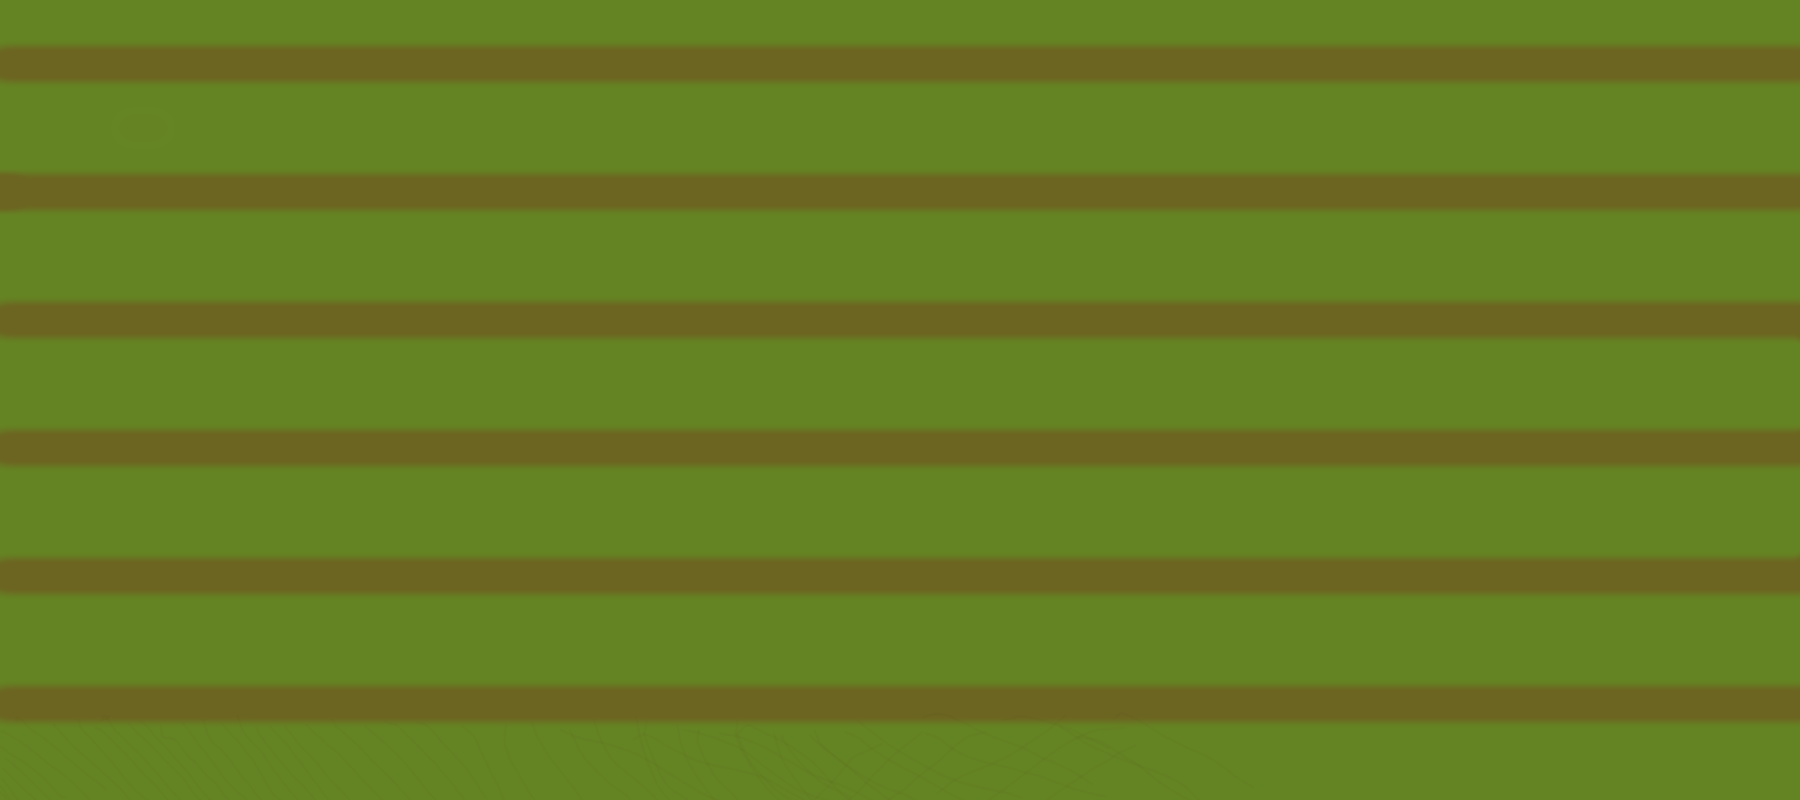
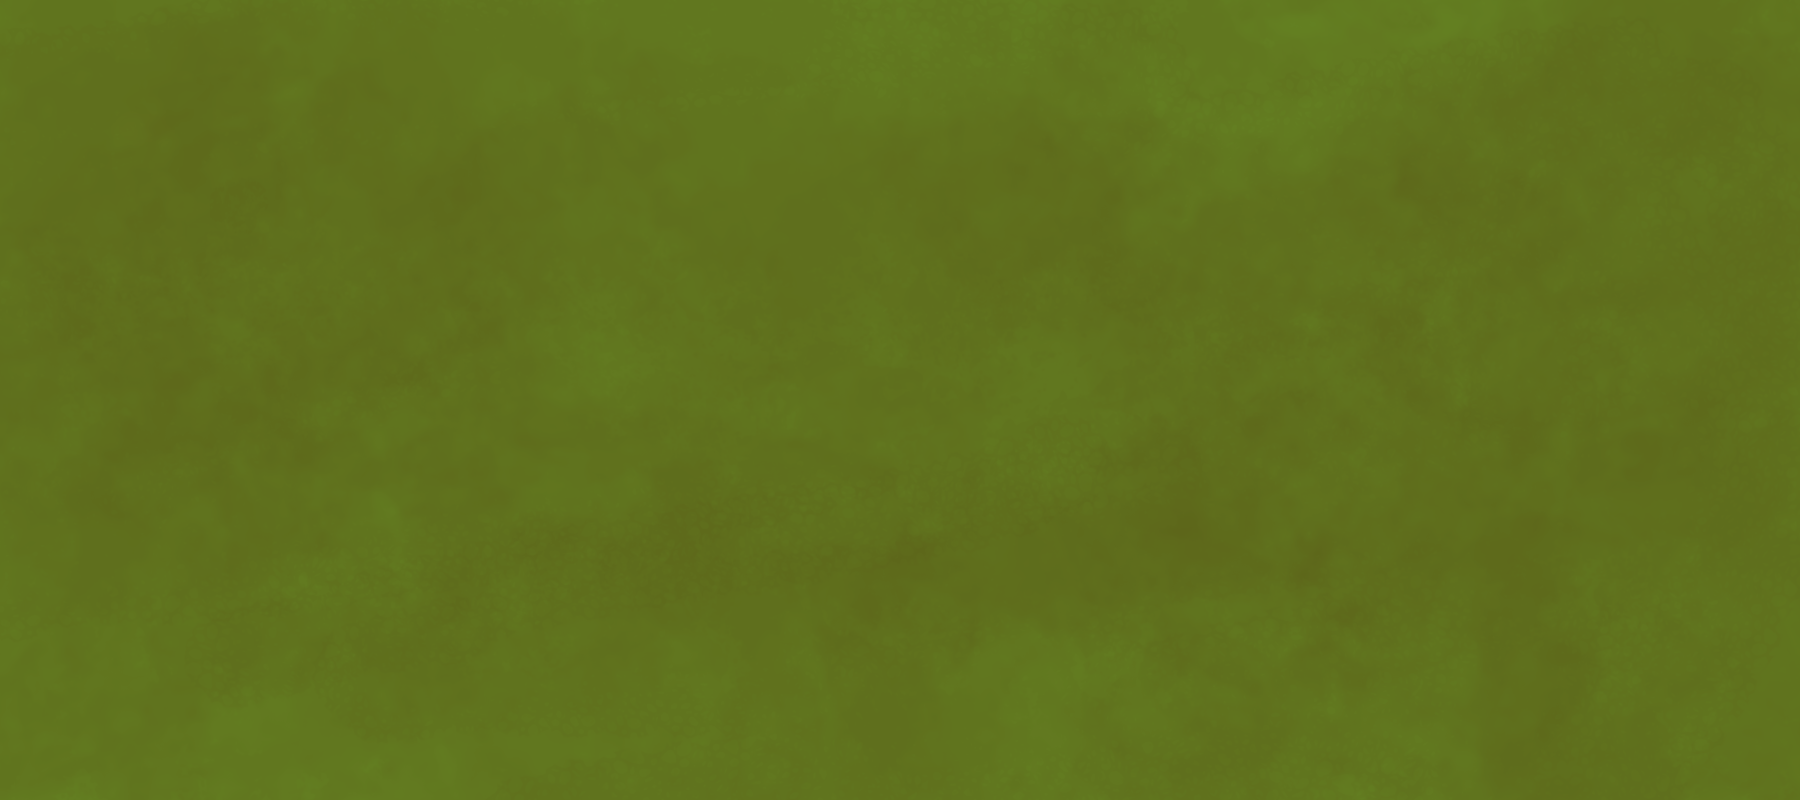
now the number of poles are reduces

diff --git a/main.py b/main.py
@@ -19,6 +19,7 @@ screen_starter = 0
 hit_occured = False 
 distance_between_poles = 0
 avoid_object_list = []
+large_stone_list = []
 
 # Makes the first display and its size
 WIN = pygame.display.set_mode((WIDTH, HEIGHT)) 
@@ -37,9 +38,11 @@ system_type = platform.system()
 if system_type == "Darwin":
     print("macOS")
     GREEN_WORLD = pygame.transform.scale(pygame.image.load('Assets/GreenWorld.PNG'), (WIDTH, HEIGHT)) 
+    large_stone_image = pygame.image.load("Assets/large_stone_1.png")
 elif system_type == "Windows":
     print("Windows")
     GREEN_WORLD = pygame.transform.scale(pygame.image.load('Assets\GreenWorld.PNG'), (WIDTH, HEIGHT)) 
+    large_stone_image = pygame.image.load("Assets\large_stone_1.png")
 
 # Events based on the game progress
 PLAYER_HIT = pygame.USEREVENT + 1
@@ -52,11 +55,25 @@ LOSE_FONT = pygame.font.SysFont('comicsans', 100)
 class large_stone_one(pygame.sprite.Sprite):
     def __init__(self, pos_x, pos_y, initial_width, initial_height):
         pygame.sprite.Sprite.__init__(self)
-        self.image = pygame.image.load("Assets\large_stone_1.png")
+        # Note consider loading the image outside of the class
+        self.image = large_stone_image
         self.image = pygame.transform.scale(self.image, (initial_width, initial_height))
         self.rect = self.image.get_rect()
         self.rect.topleft = [pos_x, pos_y]
-     
+        self.speed = SCREEN_VEL
+
+    def update_speed(self):
+        global screen_starter
+        global large_stone_list
+        if screen_starter >= 1 or player.x > 100:
+            self.rect.x -= self.speed
+            if self.rect.x <= -10:
+                self.kill()
+                if large_stone_list:
+                    large_stone_list.pop(0)
+                else: 
+                    pass
+                
             
 # Class for creation of sprites for poles 
 class avoid_object(pygame.sprite.Sprite):
@@ -70,46 +87,86 @@ class avoid_object(pygame.sprite.Sprite):
 
     def update_speed(self):
         global screen_starter
+        global avoid_object_list
         if screen_starter >= 1 or player.x > 100:
             self.rect.x -= self.speed
             if self.rect.x <= -10:
                 self.kill()
+                if avoid_object_list:
+                    avoid_object_list.pop(0)
+                else: 
+                    pass
 
-# This function will draw the terran objects
-def terran_sprite_creation(terran_large_stone):
-    stone = large_stone_one(100, 100, 50, 50)
+def create_large_stone(terran_large_stone, large_stone_list):
+    global screen_starter
 
-    terran_large_stone.add(stone)
+    if len(large_stone_list) < 2:
+        if screen_starter == 0:
+            pos_x = random.randint(0, 1750)
+            pos_y = random.randint(0, 750)
+        else:
+            pos_x = 1800
+            pos_y = random.randint(0, 750)
+            
+        initial_width, initial_height = 65, 65
 
+        stone = large_stone_one(pos_x, pos_y, initial_width, initial_height)
+        large_stone_list.append(stone)
+
+        terran_large_stone.add(stone)
+        
+    for sprite in large_stone_list:
+        terran_large_stone.add(sprite)
+        
     return terran_large_stone
+
+# Call this function to create and manage large stones
+def terran_sprite_creation(terran_large_stone, large_stone_list):
+    global screen_starter
+    if screen_starter > 0 and len(large_stone_list) < 2:
+        random_num = random.randint(0, 400)
+        if random_num == 19:
+            return create_large_stone(terran_large_stone, large_stone_list)
+        else:
+            for sprite in large_stone_list:
+                terran_large_stone.add(sprite)
+            return terran_large_stone
+    else:
+        return create_large_stone(terran_large_stone, large_stone_list)
+
 
 # Function which creates the sprites both on bottom and on top
 def sprite_creation_first_lvl(first_lvl_group):
     global distance_between_poles
     global avoid_object_list
     # Top Sprite 
-    sprite_width = 20
-    sprite_pos_y = 0 - 10
-    sprite_pos_x = WIDTH - distance_between_poles
-    # print(distance_between_poles)
-    sprite_height = random.randint(100, 350)
-    # This variable desides the distance between the poles
-    distance_between_poles -= 300
-    object_number = avoid_object(sprite_width, sprite_height, sprite_pos_x, sprite_pos_y, (BLACK))
-    avoid_object_list.append(object_number)
+    if len(avoid_object_list) < 12:
+        sprite_width = 20
+        sprite_pos_y = 0 - 10
+        sprite_pos_x = WIDTH - distance_between_poles
+        sprite_height = random.randint(100, 350)
+        # This variable desides the distance between the poles
+        distance_between_poles -= 300
+        object_number = avoid_object(sprite_width, sprite_height, sprite_pos_x, sprite_pos_y, (BLACK))
+        avoid_object_list.append(object_number)
 
-    # Bottom Sprite
-    sprite_width = 20
-    # This line is made to get the correct distance between the poles on each side
-    sprite_height = 800 - (sprite_height + 75)
-    
-    sprite_pos_y = HEIGHT - sprite_height + 20
-    object_number = avoid_object(sprite_width, sprite_height, sprite_pos_x, sprite_pos_y, (BLACK))
-    avoid_object_list.append(object_number)
-    for sprite in avoid_object_list:
-        first_lvl_group.add(sprite)
-    
-    return(first_lvl_group)
+        # Bottom Sprite
+        sprite_width = 20
+        # This line is made to get the correct distance between the poles on each side
+        sprite_height = 800 - (sprite_height + 75)
+        
+        sprite_pos_y = HEIGHT - sprite_height + 20
+        object_number = avoid_object(sprite_width, sprite_height, sprite_pos_x, sprite_pos_y, (BLACK))
+        avoid_object_list.append(object_number)
+        for sprite in avoid_object_list:
+            first_lvl_group.add(sprite)
+
+        return(first_lvl_group)
+    else:
+        distance_between_poles = 0
+        for sprite in avoid_object_list:
+            first_lvl_group.add(sprite)
+        return first_lvl_group    
 
 # This function uses a callback to the class to update the individual sprite location
 def sprite_movement(first_lvl_group):
@@ -121,9 +178,8 @@ def draw_window(player, green_world_move, first_lvl_group, start_line, player_he
     WIN.fill((BLACK))
     WIN.blit(GREEN_WORLD, (green_world_move.x, green_world_move.y))
     # The two if statements resolve in the moving background refresh
-    if green_world_move.x < 0: 
-        WIN.blit(GREEN_WORLD, (green_world_move.x + WIDTH, green_world_move.y))
-    if green_world_move.x == -WIDTH:
+    WIN.blit(GREEN_WORLD, (green_world_move.x + WIDTH, green_world_move.y))
+    if green_world_move.x <= -WIDTH:
         green_world_move.x = 0
     # This draws the player 
     pygame.draw.rect(WIN, BLACK, player)
@@ -174,6 +230,10 @@ def player_hit(first_lvl_group, player):
     elif hit_occured and len(collided_sprites) < 1: 
         hit_occured = False
 
+def large_stone_hit(first_lvl_group, terran_large_stone):
+    # This line of code checks for collision between the two groups and removes the one from terran_large_stone chosen by the True, False.
+    pygame.sprite.groupcollide(first_lvl_group, terran_large_stone, False, True)
+
 def draw_lose(player, green_world_move, first_lvl_group, start_line, player_health, terran_large_stone):
     draw_window(player, green_world_move, first_lvl_group, start_line, player_health, terran_large_stone)
     
@@ -181,13 +241,15 @@ def draw_lose(player, green_world_move, first_lvl_group, start_line, player_heal
     WIN.blit(draw_text, (WIDTH/2 - draw_text.get_width() /
                          2, HEIGHT/2 - draw_text.get_height()/2))
     pygame.display.update()
-    pygame.time.delay(5000)
+    pygame.time.delay(1000)
 
 def main():
     global screen_starter
     global player
     global distance_between_poles
+    global large_stone_list
     avoid_object_list.clear()
+    large_stone_list.clear()
     distance_between_poles = 0
     screen_starter = 0
     player = pygame.Rect(0, 0, player_WIDTH, player_HEIGHT)
@@ -207,21 +269,26 @@ def main():
             if event.type == pygame.QUIT:
                 run = False
                 pygame.quit()
-        
+
+            # Event for player hit 
             if event.type == PLAYER_HIT:
                 hit_count += 1
                 player_health -= 1
-                print(hit_count)
+                # print(hit_count)
+            
         # Draw if you lose
         if player_health <= 0: 
             draw_lose(player, green_world_move, first_lvl_group, start_line, player_health, terran_large_stone)
             break
         # These lines are for the sprites creation and updates 
-        if screen_starter >= 1 or player.x > 100: 
+        if screen_starter >= 1 or player.x > 100:
             first_lvl_group = sprite_creation_first_lvl(first_lvl_group)
             sprite_movement(first_lvl_group)
             start_line.x -= SCREEN_VEL
-        terran_large_stone = terran_sprite_creation(terran_large_stone)
+        
+        terran_large_stone = terran_sprite_creation(terran_large_stone, large_stone_list)
+        sprite_movement(terran_large_stone)
+        large_stone_hit(first_lvl_group, terran_large_stone)
         keys_pressed = pygame.key.get_pressed()
         player_hit(first_lvl_group, player)
         player_movement(keys_pressed, player)
